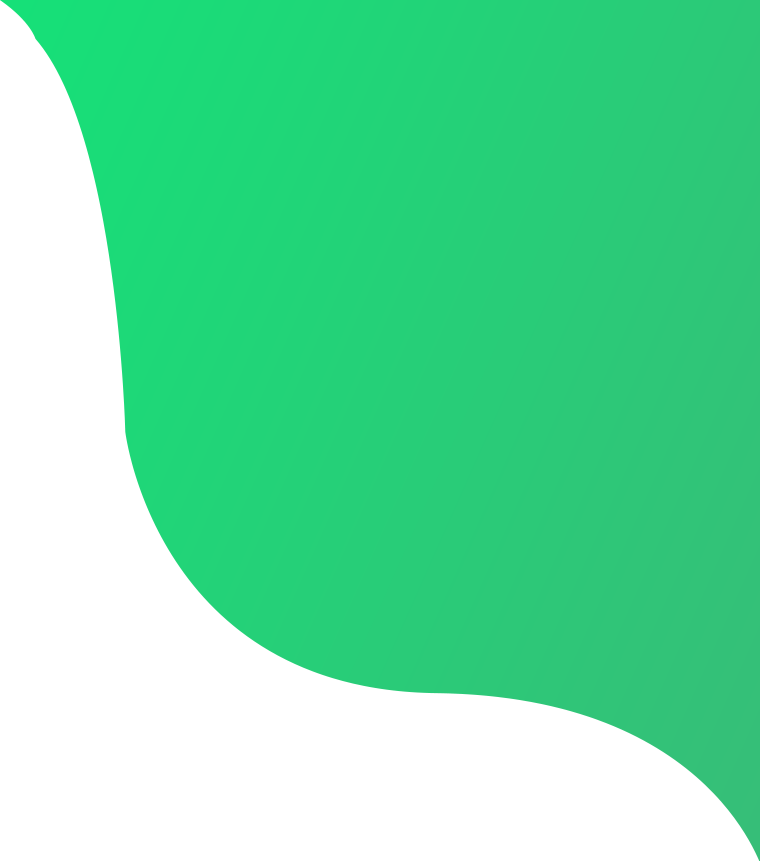
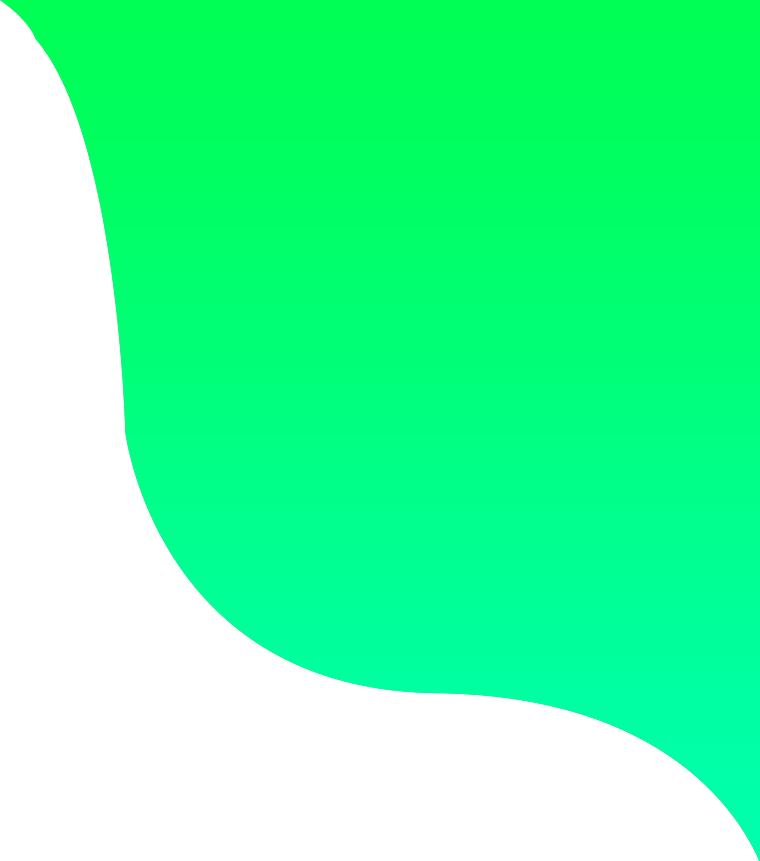
menambahkan gambar png pada hero

diff --git a/index.html b/index.html
@@ -154,28 +154,27 @@
                 <div class="col-md-6">
                   <div class="detail-box">
                     <h1>
-                      The Latest
+                      Menyediakan Alat
                       <span>
-                        Furniture
+                        Elektronik
                       </span>
                     </h1>
                     <p>
-                      Lorem ipsum dolor sit amet, consectetur adipiscing elit, sed
-                      do eiusmod tempor incididunt ut labore
+                      Menyediakan alat elektronik untuk kebutuhan kantor anda.
                     </p>
                     <div class="btn-box">
                       <a href="" class="btn-1">
-                        Read More
+                        Lihat Disini
                       </a>
                       <a href="" class="btn-2">
-                        Contact us
+                        Hubungi Kami
                       </a>
                     </div>
                   </div>
                 </div>
                 <div class="col-md-6 img-container">
                   <div class="img-box">
-                    <img src="images/slider-img.png" alt="">
+                    <img src="images/slider-img2.png" alt="">
                   </div>
                 </div>
               </div>
@@ -185,9 +184,9 @@
                 <div class="col-md-6">
                   <div class="detail-box">
                     <h1>
-                      The Latest
+                      Alat Peraga
                       <span>
-                        Furniture
+                        Edukatif
                       </span>
                     </h1>
                     <p>
@@ -196,17 +195,17 @@
                     </p>
                     <div class="btn-box">
                       <a href="" class="btn-1">
-                        Read More
+                        Lihat Disini
                       </a>
                       <a href="" class="btn-2">
-                        Contact us
+                        Hubungi Kami
                       </a>
                     </div>
                   </div>
                 </div>
                 <div class="col-md-6 img-container">
                   <div class="img-box">
-                    <img src="images/slider-img.png" alt="">
+                    <img src="images/slider-img3.png" alt="">
                   </div>
                 </div>
               </div>

diff --git a/css/style.css b/css/style.css
@@ -57,7 +57,7 @@ body {
 /*header section*/
 .hero_area {
   height: 100vh;
-  background-image: url(../images/hero-bg.jpg);
+  background-image: url(../images/hero-bg1.jpg);
   background-size: cover;
   position: relative;
   background-repeat: no-repeat;
